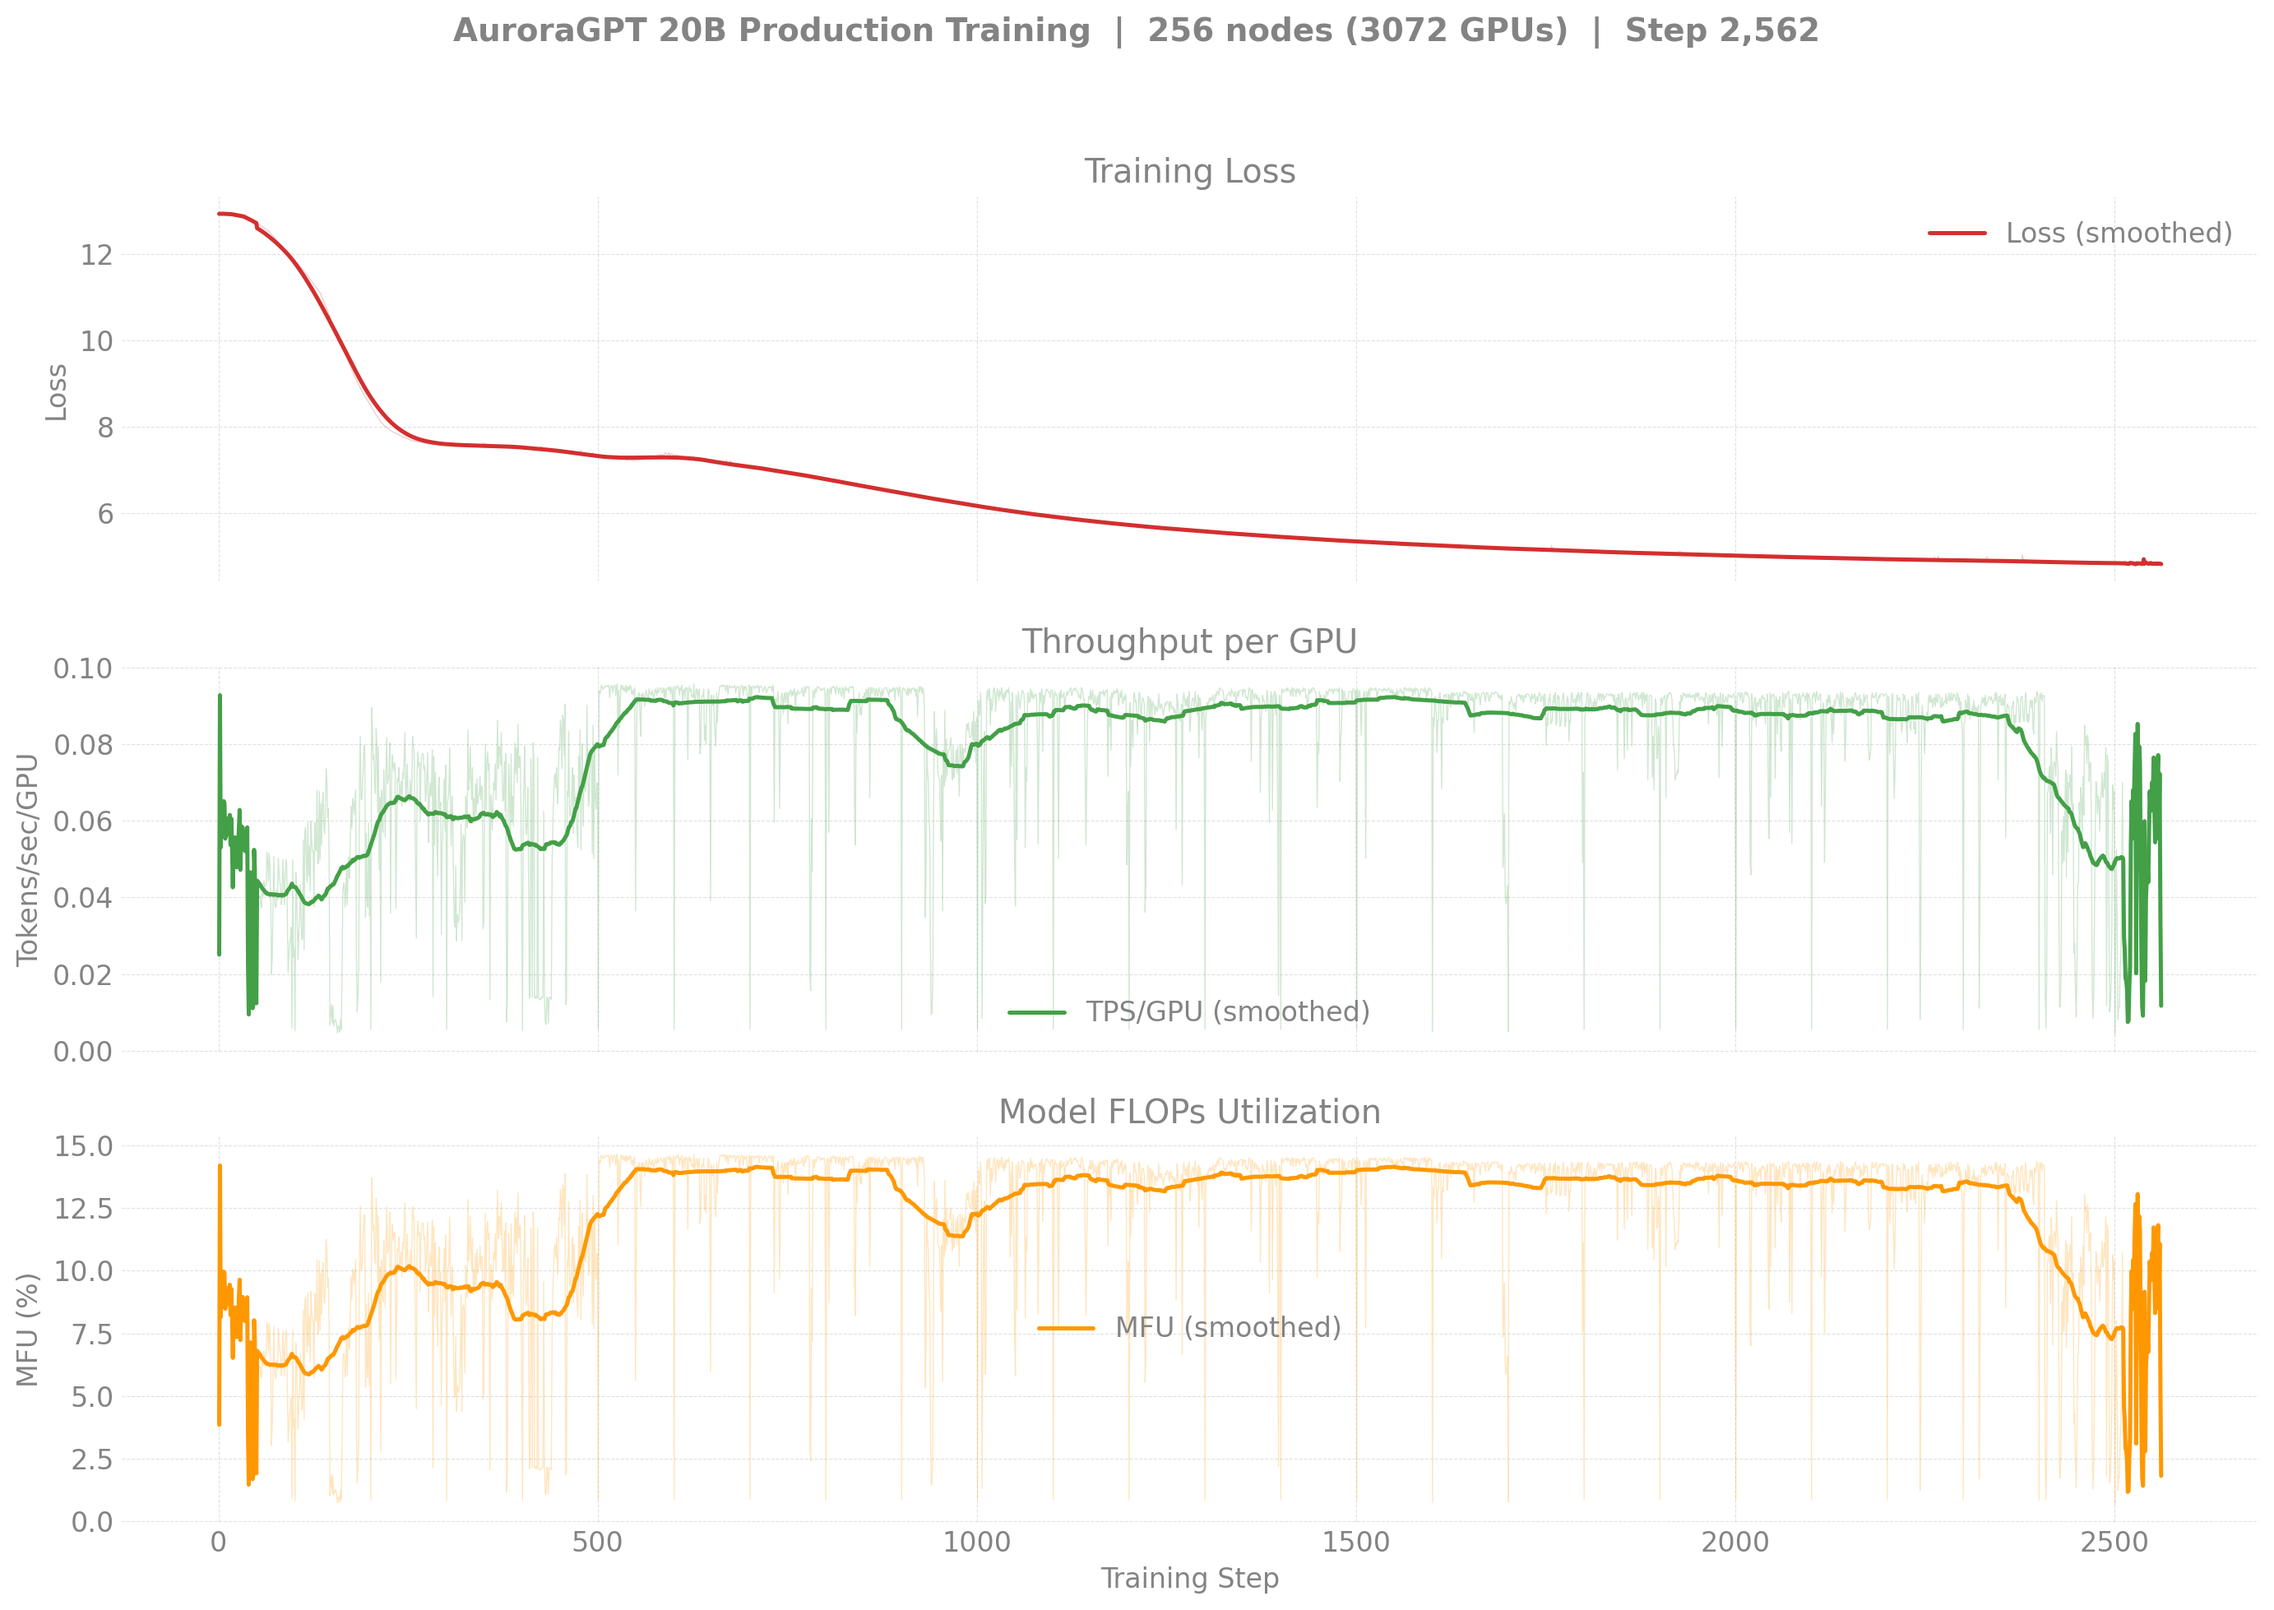
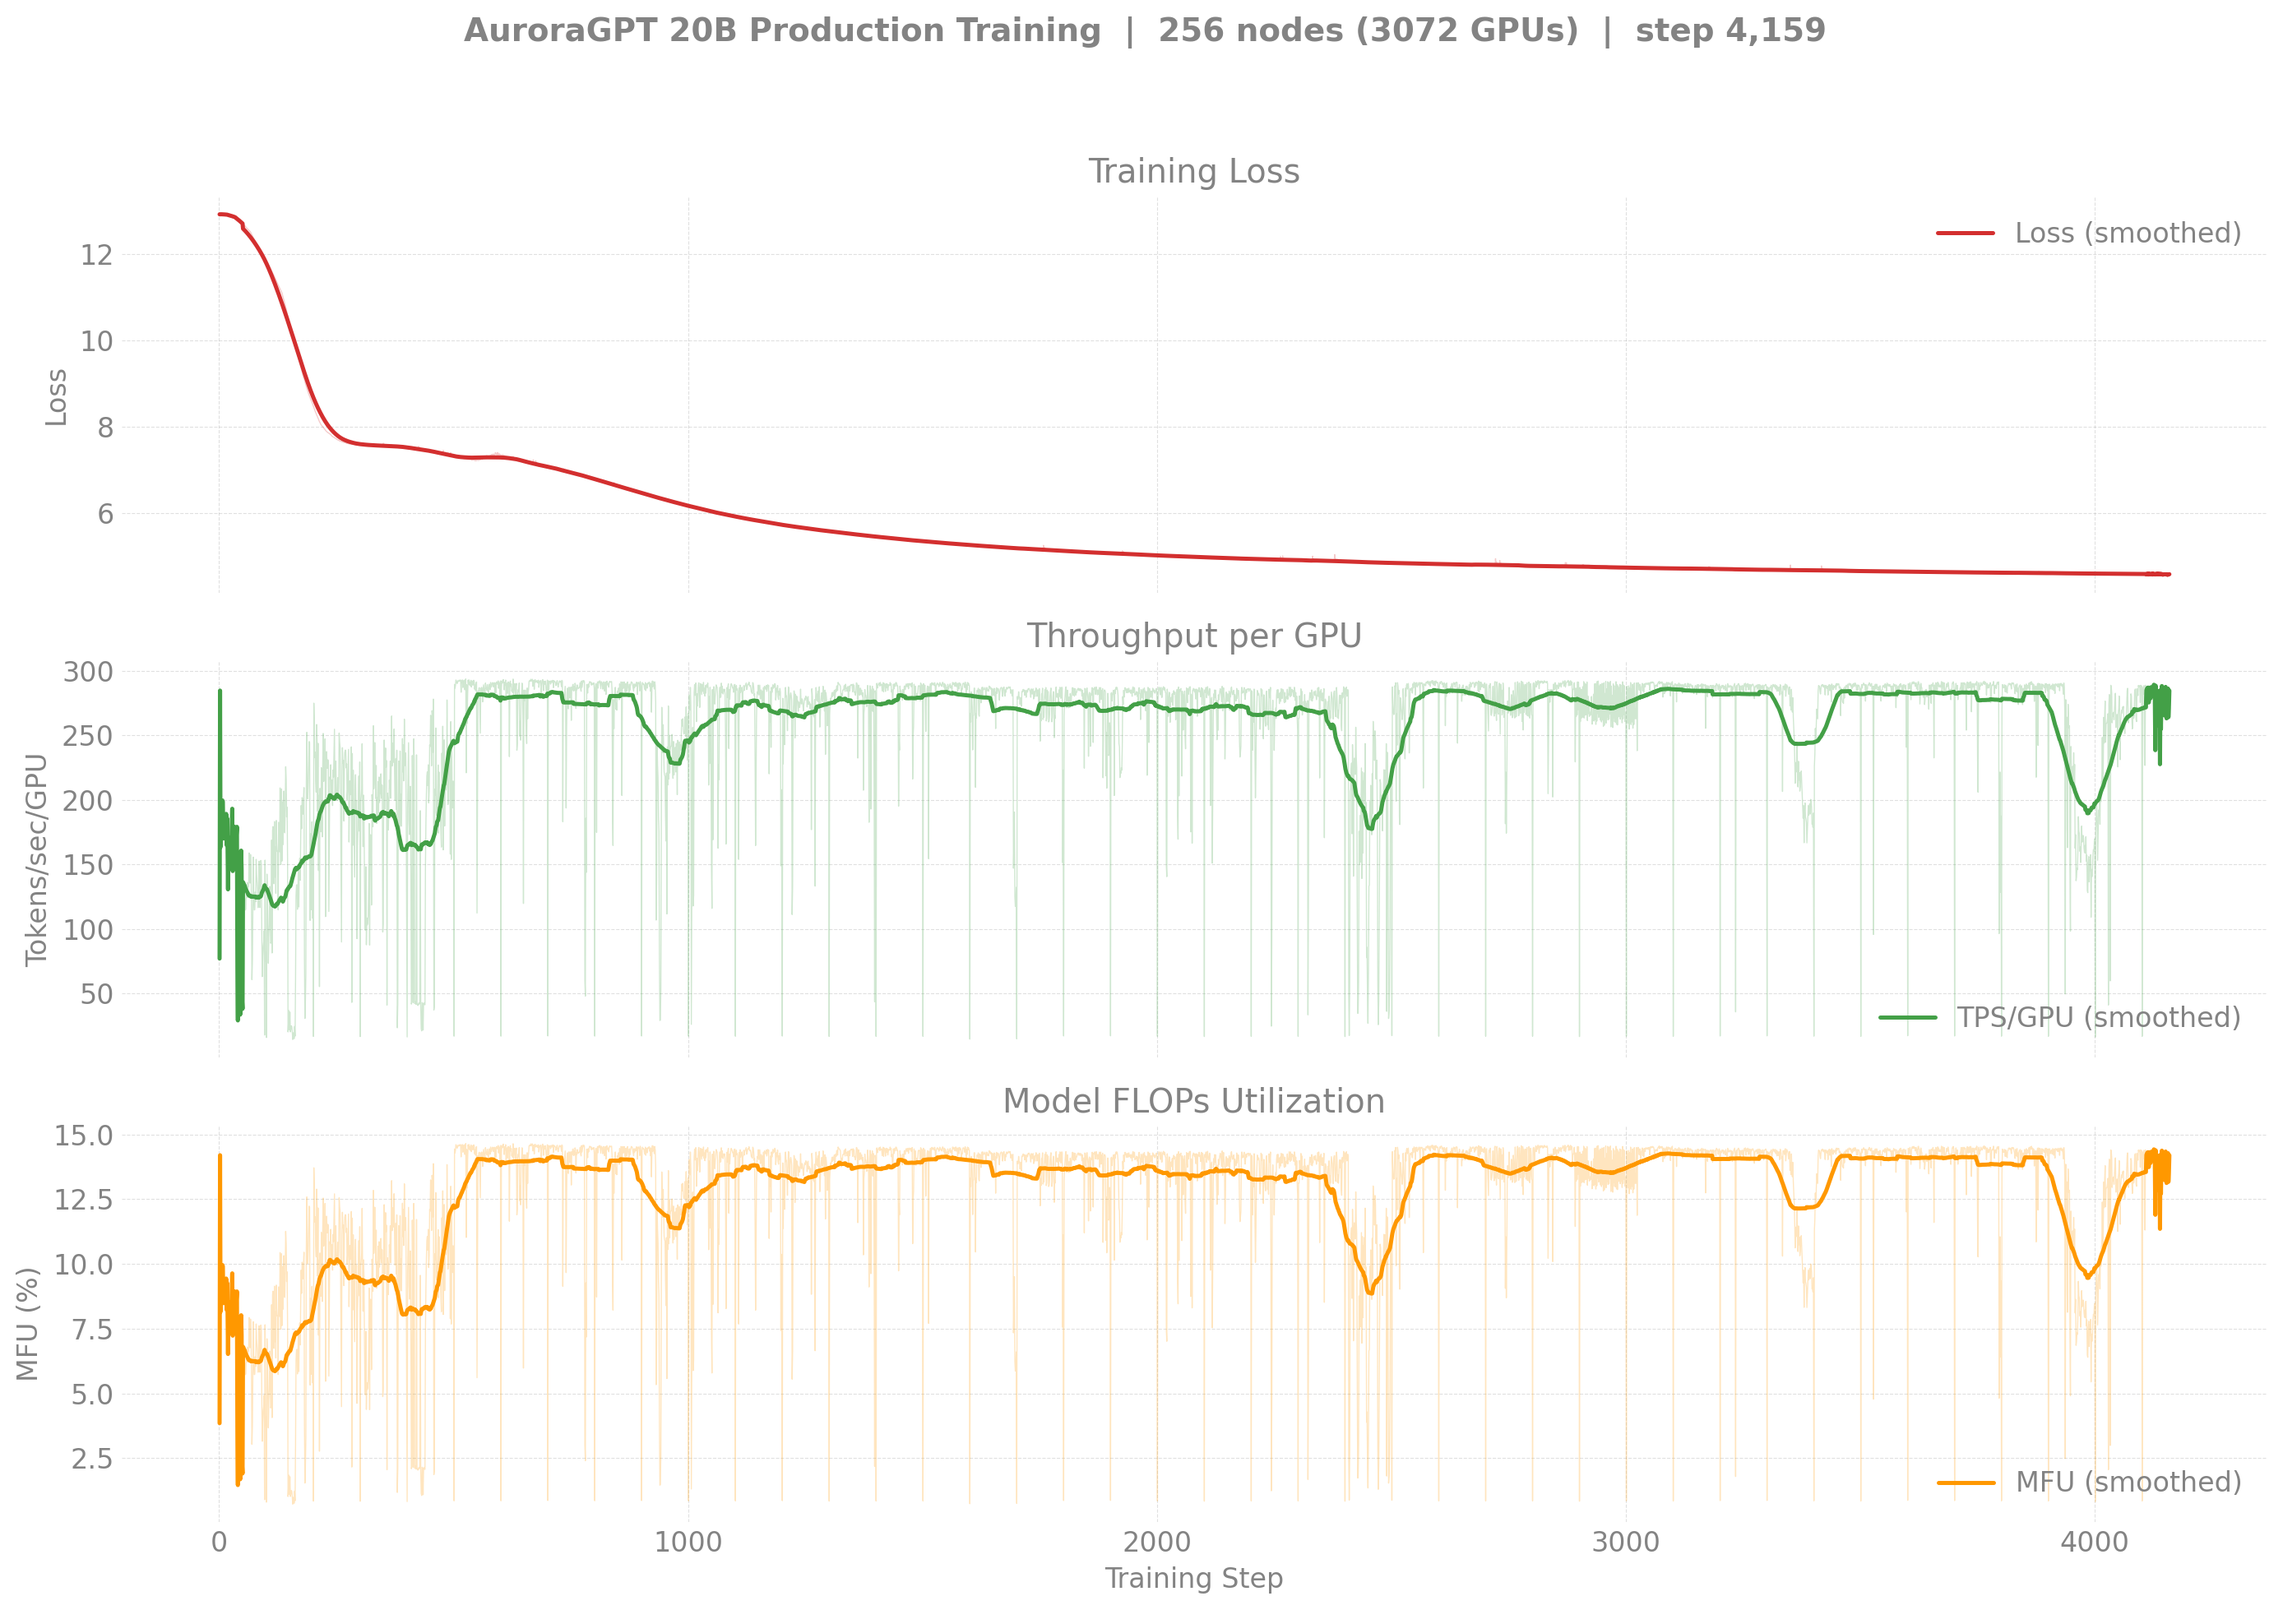
fix(ezpz): regenerate loss/tps/mfu dashboards from W&B so step counts match diagnostics
The 2B README's loss/throughput/MFU panel showed step 17,425 while the
diagnostics panel showed step 33,740. Cause: `plot_production.py`
parses PBS *.o<jobid> files, which only exist for jobs that have
exited; it couldn't see the in-flight runs (`hqwaw075`, `6ictshbs`,
`wviyqysc` for 2B; `e2anhgt2`, `he01jr7f`, `t0ja3dl4` for 20B).

  - Add `plot_dashboard()` to `plot_production_wandb.py` that builds
    the same loss/tps-per-gpu/mfu figure from W&B history. Pulls
    `loss_metrics/global_avg_loss`, `throughput(tps)` (already
    per-rank in torchtitan, so don't divide), and `mfu(%)`.
  - Regenerate `production_{2b,20b}_256n.png` from W&B; both now read
    step 33,740 / 4,159 to match the diagnostics figures.
  - Mark `plot_production.py` deprecated; keep as fallback.

diff --git a/torchtitan/experiments/ezpz/utils/plot_production_wandb.py b/torchtitan/experiments/ezpz/utils/plot_production_wandb.py
@@ -1,15 +1,18 @@
 #!/usr/bin/env python3
 """Plot production training metrics pulled from W&B.
 
-Generates two figures per model size, complementing
-``plot_production.py`` (which builds the loss/tps/mfu dashboard from
-PBS logs):
+W&B is the single source of truth for production training history,
+since PBS log files only exist for jobs that have already exited and
+the active runs span multiple resumes. Generates three figures per
+model size:
 
-  - ``training_diagnostics_<model>_<num_nodes>n.png``: grad_norm, lr, and
-    max_loss vs training step.
+  - ``production_<model>_<num_nodes>n.png``: loss / tps-per-gpu / mfu
+    vs step (overwrites the same filename produced by the legacy
+    ``plot_production.py``).
+  - ``training_diagnostics_<model>_<num_nodes>n.png``: grad_norm, lr,
+    and max_loss vs step.
   - ``tokens_vs_time_<model>_<num_nodes>n.png``: cumulative
-    ``n_tokens_seen`` vs wall-clock datetime, concatenated across the
-    run's resumes.
+    ``n_tokens_seen`` vs wall-clock datetime.
 
 Run from the repo root:
 
@@ -92,8 +95,11 @@ METRIC_KEYS = (
     "_timestamp",
     "grad_norm",
     "lr",
+    "loss_metrics/global_avg_loss",
     "loss_metrics/global_max_loss",
     "n_tokens_seen",
+    "throughput(tps)",
+    "mfu(%)",
 )
 
 
@@ -145,6 +151,79 @@ def smooth(values: np.ndarray, window: int = 100) -> np.ndarray:
     smoothed[:half] = values[:half]
     smoothed[-half:] = values[-half:]
     return smoothed
+
+
+def plot_dashboard(
+    data: dict[str, np.ndarray],
+    model_name: str,
+    num_nodes: int,
+    output_path: Path,
+) -> Path:
+    """3-panel figure: loss, tps/gpu, mfu vs step.
+
+    Replaces the log-parsing version in ``plot_production.py``: pulls
+    from W&B so it reflects in-progress runs whose PBS log files
+    haven't been written yet.
+    """
+    color = MODEL_COLORS.get(model_name, "#1E88E5")
+    num_gpus = num_nodes * 12
+    steps = data["_step"].astype(float)
+    loss = data["loss_metrics/global_avg_loss"].astype(float)
+    # `throughput(tps)` is already logged per-rank (per-GPU) by torchtitan,
+    # not aggregated — values for the 2B run sit around 1k-3k, matching
+    # the per-GPU numbers in the PBS-log dashboards. Don't divide.
+    tps_per_gpu = data["throughput(tps)"].astype(float)
+    mfu = data["mfu(%)"].astype(float)
+
+    valid = ~np.isnan(steps)
+    steps = steps[valid]
+    loss = loss[valid]
+    tps_per_gpu = tps_per_gpu[valid]
+    mfu = mfu[valid]
+
+    fig, axes = plt.subplots(3, 1, figsize=(14, 10), sharex=True)
+    fig.suptitle(
+        f"AuroraGPT {model_name.upper()} Production Training  |  "
+        f"{num_nodes} nodes ({num_gpus} GPUs)  |  "
+        f"step {int(steps[-1]):,}",
+        fontsize=14,
+        fontweight="bold",
+    )
+
+    ax = axes[0]
+    ax.plot(steps, loss, color=color, alpha=0.25, linewidth=0.5)
+    ax.plot(steps, smooth(loss), color=color, linewidth=1.8, label="Loss (smoothed)")
+    ax.set_ylabel("Loss")
+    ax.set_title("Training Loss")
+    ax.legend()
+
+    ax = axes[1]
+    ax.plot(steps, tps_per_gpu, color="#43A047", alpha=0.25, linewidth=0.5)
+    ax.plot(
+        steps,
+        smooth(tps_per_gpu),
+        color="#43A047",
+        linewidth=1.8,
+        label="TPS/GPU (smoothed)",
+    )
+    ax.set_ylabel("Tokens/sec/GPU")
+    ax.set_title("Throughput per GPU")
+    ax.legend()
+
+    ax = axes[2]
+    ax.plot(steps, mfu, color="#FF9800", alpha=0.25, linewidth=0.5)
+    ax.plot(steps, smooth(mfu), color="#FF9800", linewidth=1.8, label="MFU (smoothed)")
+    ax.set_ylabel("MFU (%)")
+    ax.set_xlabel("Training Step")
+    ax.set_title("Model FLOPs Utilization")
+    ax.legend()
+
+    fig.tight_layout(rect=(0, 0, 1, 0.95))
+    output_path.parent.mkdir(parents=True, exist_ok=True)
+    fig.savefig(output_path, dpi=200, bbox_inches="tight")
+    plt.close(fig)
+    print(f"Saved: {output_path}")
+    return output_path
 
 
 def plot_diagnostics(
@@ -291,6 +370,12 @@ def main() -> None:
         data = concat_runs(api, cfg["run_ids"])
         print(f"  Concatenated: {len(data['_step'])} unique steps")
 
+        plot_dashboard(
+            data,
+            model_name,
+            cfg["num_nodes"],
+            out_dir / f"production_{model_name}_{cfg['num_nodes']}n.png",
+        )
         plot_diagnostics(
             data,
             model_name,

diff --git a/torchtitan/experiments/ezpz/utils/plot_production.py b/torchtitan/experiments/ezpz/utils/plot_production.py
@@ -1,6 +1,12 @@
 #!/usr/bin/env python3
 """Plot production training metrics from PBS output files.
 
+DEPRECATED: prefer ``plot_production_wandb.py``, which pulls history
+from W&B and therefore captures in-progress runs whose PBS log files
+haven't been written yet. This script is retained for plotting old
+runs that pre-date W&B logging, or as a fallback if W&B is
+unavailable.
+
 Parses PBS job output files containing training step logs, extracts
 loss/throughput/MFU metrics, and generates publication-quality plots.
 
